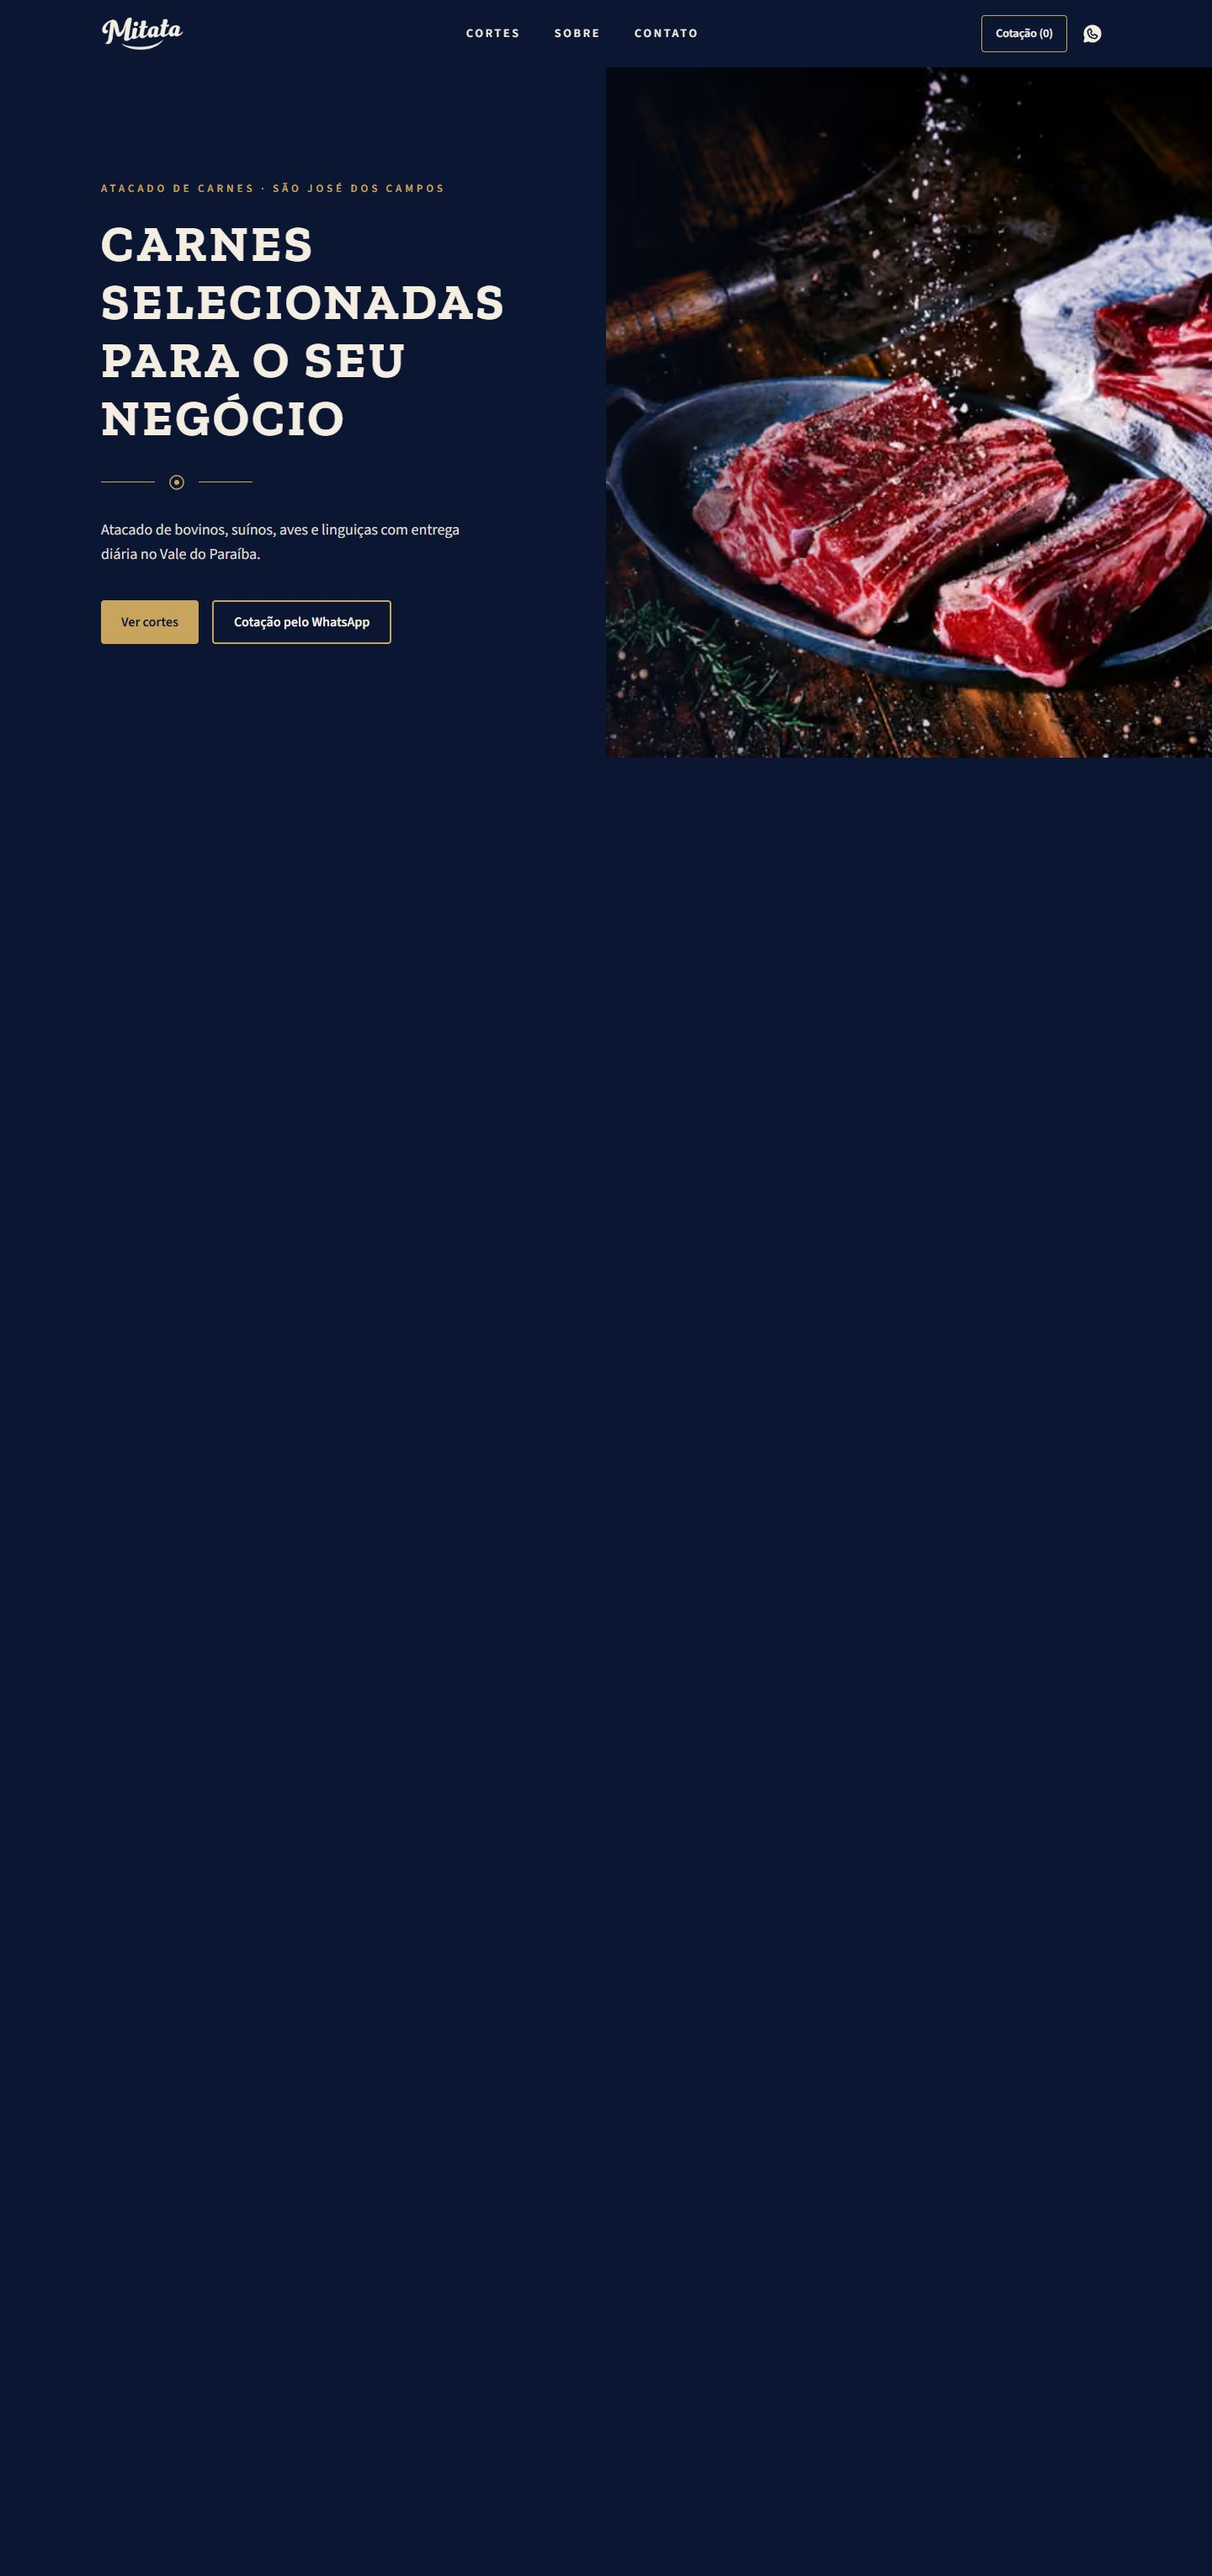
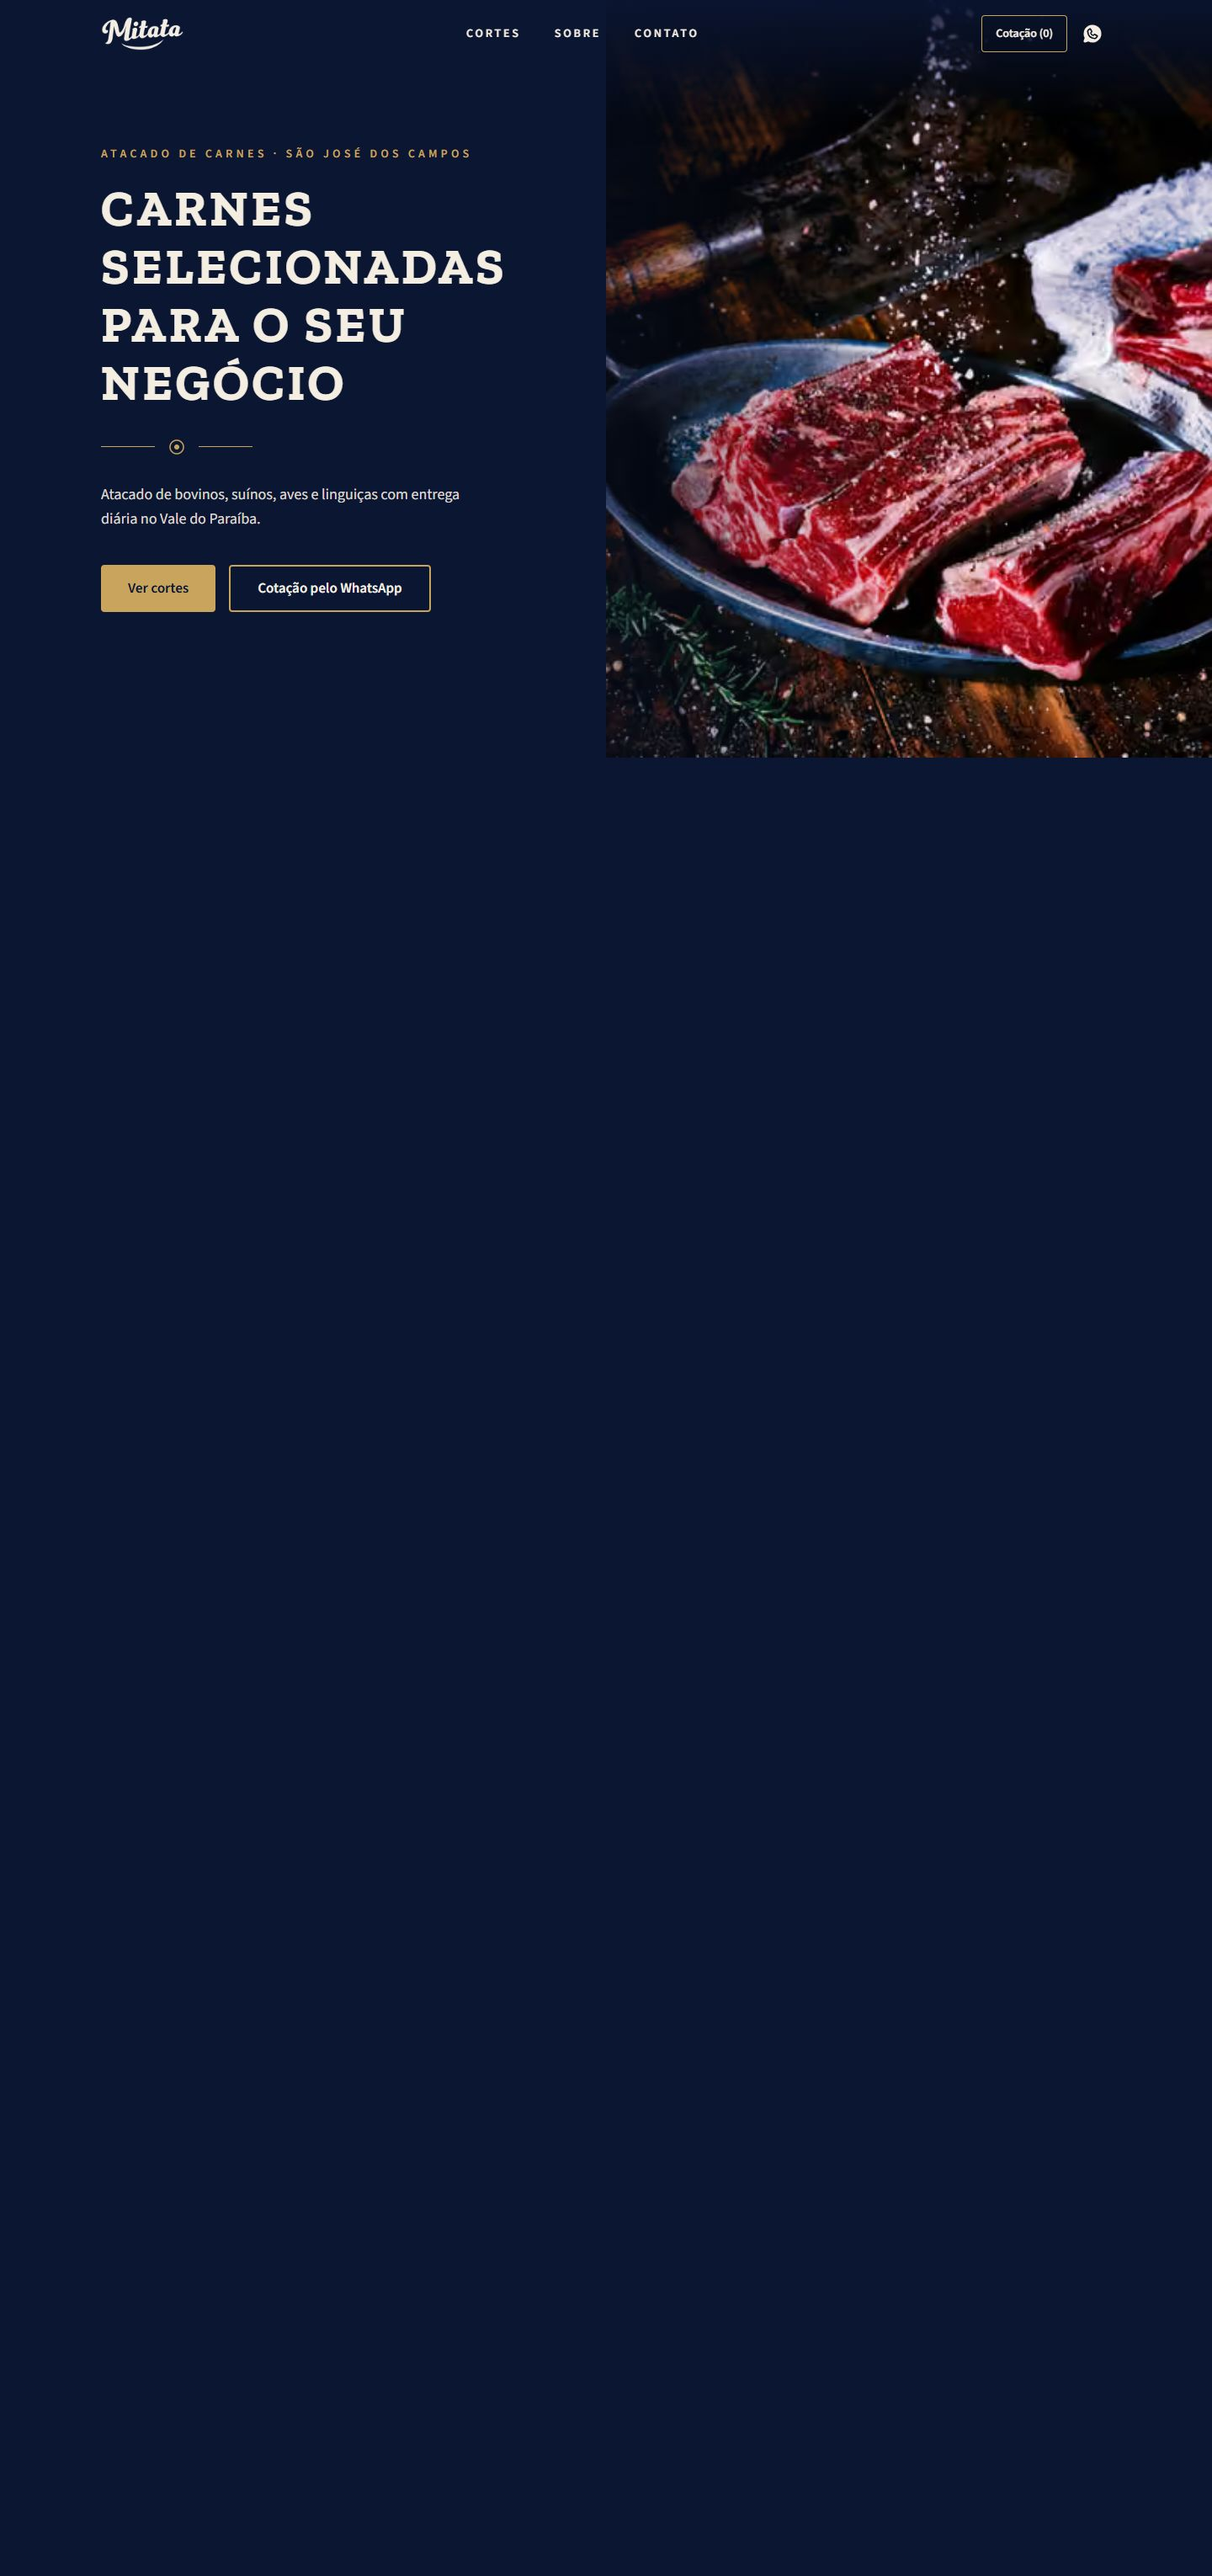
Hero em tela cheia e botões maiores

Changed region(s): [[0.5, 0.0, 1.0, 0.3105], [0.0625, 0.0621, 0.4375, 0.2484]]

diff --git a/src/components/secoes/Hero.tsx b/src/components/secoes/Hero.tsx
@@ -13,7 +13,7 @@ export function Hero() {
   return (
     <section
       id={site.ancoras.inicio}
-      className="grid grid-cols-[minmax(0,1fr)] bg-marinho pt-16 lg:min-h-svh lg:grid-cols-2 lg:pt-20"
+      className="grid grid-cols-[minmax(0,1fr)] bg-marinho lg:min-h-svh lg:grid-cols-2"
       aria-labelledby="titulo-hero"
     >
       <div className="relative aspect-[4/3] lg:order-2 lg:aspect-auto">
@@ -22,9 +22,14 @@ export function Hero() {
           aria-hidden="true"
           className="absolute inset-0 bg-gradient-to-t from-marinho/60 via-transparent to-transparent lg:bg-gradient-to-r lg:from-marinho/40 lg:via-transparent"
         />
+        {/* Faixa azul-marinho sob o topo fixo: mantém legíveis os itens que ficam sobre a foto. */}
+        <div
+          aria-hidden="true"
+          className="absolute inset-x-0 top-0 h-36 bg-gradient-to-b from-marinho/90 via-marinho/50 to-transparent"
+        />
       </div>
 
-      <div className="flex items-center px-4 py-14 sm:px-6 lg:order-1 lg:py-24 lg:pl-10 lg:pr-16 xl:pl-[max(2.5rem,calc((100vw-80rem)/2+2.5rem))]">
+      <div className="flex items-center px-4 py-14 sm:px-6 lg:order-1 lg:py-24 lg:pt-36lg:pl-10 lg:pr-16 xl:pl-[max(2.5rem,calc((100vw-80rem)/2+2.5rem))]">
         <Revelar className="max-w-xl">
           <Rotulo tom="escuro">{hero.rotulo}</Rotulo>
           <h1

diff --git a/src/components/ui/Botao.tsx b/src/components/ui/Botao.tsx
@@ -10,7 +10,7 @@ type BotaoProps = {
 };
 
 const base =
-  'inline-flex min-h-12 items-center justify-center gap-2 rounded-sm px-6 py-3 font-texto text-base font-semibold transition-colors ' +
+  'inline-flex min-h-12 items-center justify-center gap-2 rounded-sm px-6 py-3 font-texto text-base font-semibold transition-colors lg:min-h-14 lg:px-8 lg:text-[17px] ' +
   'focus-visible:outline-2 focus-visible:outline-offset-4 focus-visible:outline-dourado';
 
 const variantes = {

diff --git a/src/components/ui/Rotulo.tsx b/src/components/ui/Rotulo.tsx
@@ -9,6 +9,8 @@ type RotuloProps = {
 export function Rotulo({ tom, children, className = '' }: RotuloProps) {
   const cor = tom === 'escuro' ? 'text-dourado' : 'text-dourado-escuro';
   return (
-    <p className={`font-texto text-[13px] font-semibold uppercase tracking-[0.3em] ${cor} ${className}`}>{children}</p>
+    <p className={`font-texto text-[13px] font-semibold lg:text-sm uppercase tracking-[0.3em] ${cor} ${className}`}>
+      {children}
+    </p>
   );
 }

diff --git a/src/app/globals.css b/src/app/globals.css
@@ -30,10 +30,6 @@ html {
   scroll-padding-top: var(--altura-topo);
 }
 
-section[id] {
-  scroll-margin-top: var(--altura-topo);
-}
-
 body {
   @apply bg-marinho text-creme font-texto;
   font-size: 1rem;
